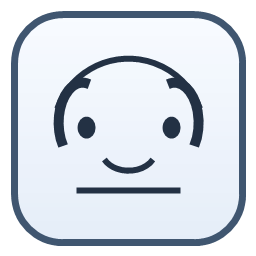
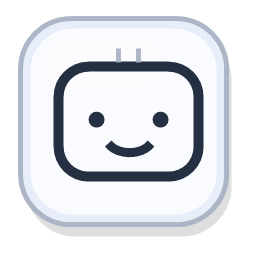
TX

Changed region(s): [[0.0312, 0.0312, 0.9688, 0.9688], [0.1875, 0.1875, 0.8125, 0.7812], [0.5938, 0.4375, 0.7188, 0.5625]]

diff --git a/electron-app/src/renderer/renderer.js b/electron-app/src/renderer/renderer.js
@@ -351,7 +351,20 @@ function compactStatus(text) {
 function requestSettingsResize() {
   if (!appShell.classList.contains("settings-open") || !window.screenMemory.resizeSettings) return;
   requestAnimationFrame(() => {
-    const desiredHeight = Math.ceil(document.getElementById("settingsView").scrollHeight + 24);
+    const settingsView = document.getElementById("settingsView");
+    const title = settingsView.querySelector(".settings-title");
+    const tabs = settingsView.querySelector(".settings-tabs");
+    const activePane = settingsView.querySelector(".settings-pane.active");
+    const desiredHeight = Math.ceil(
+      18 +
+        18 +
+        (title?.scrollHeight || 0) +
+        6 +
+        (tabs?.scrollHeight || 0) +
+        10 +
+        (activePane?.scrollHeight || 0) +
+        22
+    );
     window.screenMemory.resizeSettings(desiredHeight);
   });
 }

diff --git a/electron-app/src/renderer/styles.css b/electron-app/src/renderer/styles.css
@@ -274,6 +274,7 @@ input::placeholder {
 }
 
 .tiny-line {
+  display: none;
   gap: 10px;
   min-width: 0;
   margin-top: 5px;
@@ -500,7 +501,7 @@ input::placeholder {
 .codex-row {
   color: #6f7680;
   font-size: 12px;
-  align-items: flex-start;
+  align-items: center;
 }
 
 .codex-row select {
@@ -512,9 +513,14 @@ input::placeholder {
   flex: 1 1 auto;
   overflow: hidden;
   color: #6f7680;
-  line-height: 20px;
+  line-height: 32px;
   text-overflow: ellipsis;
   white-space: nowrap;
+}
+
+.settings-codex-row .guide-toggle {
+  height: 32px;
+  align-items: center;
 }
 
 .buddy-mode,

diff --git a/electron-app/src/main.js b/electron-app/src/main.js
@@ -1711,9 +1711,9 @@ function setMainWindowMode(mode) {
 
 function resizeSettingsWindow(height) {
   if (!mainWindow || mainWindow.isDestroyed()) return;
-  const safeHeight = Math.max(238, Math.min(420, Number(height || 318)));
+  const safeHeight = Math.max(188, Math.min(420, Number(height || 318)));
   const bounds = getAnchoredBounds(820, safeHeight, "bottom-right", 18);
-  mainWindow.setMinimumSize(520, Math.max(218, safeHeight - 20));
+  mainWindow.setMinimumSize(520, Math.max(168, safeHeight - 20));
   mainWindow.setBounds(bounds, false);
 }
 